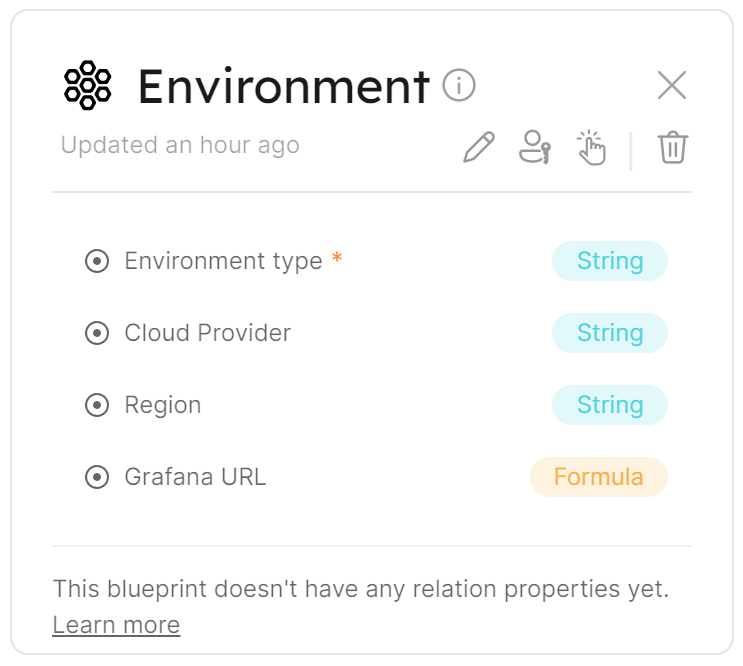
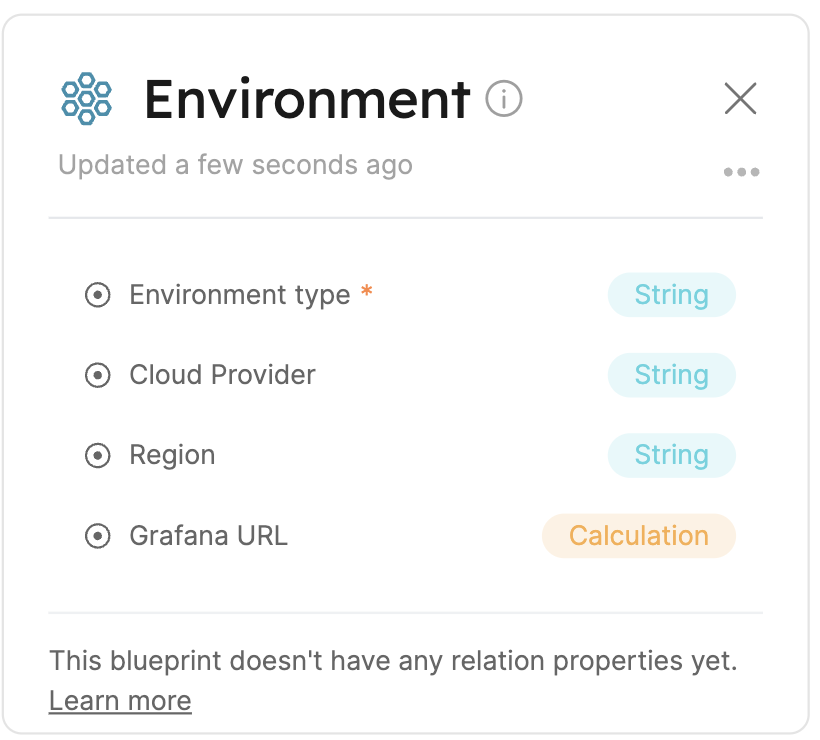
Change formula properties into calproperties in quickstart (#121)
* Change formula properties into calproperties in quickstart

* Format images

diff --git a/docs/quickstart.md b/docs/quickstart.md
@@ -232,19 +232,26 @@ In order to create the service Blueprint, use the following JSON body:
     "slack-notifications": {
       "title": "Slack Notifications",
       "icon": "Link",
-      "calculation": "'https://slack.com/' + .identifier"
+      "calculation": "'https://slack.com/' + .identifier",
+      "type": "string",
+      "format": "url"
     },
     "latest-build-output": {
       "title": "Latest Build Output",
       "icon": "Jenkins",
-      "calculation": ".properties.url + '/' + .properties.version"
+      "calculation": ".properties.url + '/' + .properties.version",
+      "type": "string",
+      "format": "url"
     },
     "launch-darkly": {
       "title": "Launch Darkly",
       "icon": "Customer",
-      "calculation": "'https://launchdarkly.com/' + .properties.title"
+      "calculation": "'https://launchdarkly.com/' + .title",
+      "type": "string",
+      "format": "url"
     }
   },
+  "formulaProperties": {},
   "relations": {}
 }
 ```
@@ -425,19 +432,26 @@ blueprint = {
       "slack-notifications": {
         "title": "Slack Notifications",
         "icon": "Link",
-        "calculation": "'https://slack.com/' + .identifier"
+        "calculation": "'https://slack.com/' + .identifier",
+        "type": "string",
+        "format": "url"
       },
       "latest-build-output": {
         "title": "Latest Build Output",
         "icon": "Jenkins",
-        "calculation": ".properties.url + '/' + .properties.version"
+        "calculation": ".properties.url + '/' + .properties.version",
+        "type": "string",
+        "format": "url"
       },
       "launch-darkly": {
         "title": "Launch Darkly",
         "icon": "Customer",
-        "calculation": "'https://launchdarkly.com/' + .properties.title"
+        "calculation": "'https://launchdarkly.com/' + .title",
+        "type": "string",
+        "format": "url"
       }
   },
+    "formulaProperties": {},
     "relations": {}
 }
 
@@ -884,15 +898,20 @@ To create the running service Blueprint, use the following JSON body:
   "calculationProperties": {
     "sentryUrl": {
       "title": "Sentry URL",
+      "type": "string",
+      "format": "url",
       "icon": "Link",
       "calculation": "'https://sentry.io/' + .identifier"
     },
     "newRelicUrl": {
       "title": "NewRelic URL",
+      "type": "string",
+      "format": "url",
       "icon": "Link",
       "calculation": "'https://newrelic.com/' + .identifier"
     }
   },
+  "formulaProperties": {},
   "relations": {
     "microservice": {
       "target": "microservice",
@@ -1033,17 +1052,22 @@ blueprint = {
     },
     "mirrorProperties": {},
     "calculationProperties": {
-    "sentryUrl": {
-      "title": "Sentry URL",
-      "icon": "Link",
-      "calculation": "'https://sentry.io/' + .identifier"
+      "sentryUrl": {
+        "title": "Sentry URL",
+        "type": "string",
+        "format": "url",
+        "icon": "Link",
+        "calculation": "'https://sentry.io/' + .identifier"
     },
     "newRelicUrl": {
-      "title": "NewRelic URL",
-      "icon": "Link",
-      "calculation": "'https://newrelic.com/' + .identifier"
+        "title": "NewRelic URL",
+        "type": "string",
+        "format": "url",
+        "icon": "Link",
+        "calculation": "'https://newrelic.com/' + .identifier"
     }
-  },
+    },
+    "formulaProperties": {},
     "relations": {
         "microservice": {
             "target": "microservice",

diff --git a/docs/software-catalog/search-in-port.md b/docs/software-catalog/search-in-port.md
@@ -440,10 +440,10 @@ The output received from the `relatedTo` operator without any other rule added t
 
 The search route also supports several query parameters that affect the returned output:
 
-| Parameter                       | Description                                                                                                                                                                                                 | Available values | Default value |
-| ------------------------------- | ----------------------------------------------------------------------------------------------------------------------------------------------------------------------------------------------------------- | ---------------- | ------------- |
-| `attach_title_to_relation`      | `true`: Both the identifier and the title of the related Entity will appear under the Relation key <br></br><br></br> `false`: Only the identifier of the related Entity will appear under the Relation key | `true`/`false`   | `false`       |
-| `exclude_calculated_properties` | Should [mirror properties](../software-catalog/blueprint/blueprint.md#mirror-properties) and [calculation properties](../software-catalog/blueprint/blueprint.md#calculation-properties) be returned with the result                  | `true`/`false`   | `false`       |
+| Parameter                       | Description                                                                                                                                                                                                          | Available values | Default value |
+| ------------------------------- | -------------------------------------------------------------------------------------------------------------------------------------------------------------------------------------------------------------------- | ---------------- | ------------- |
+| `attach_title_to_relation`      | `true`: Both the identifier and the title of the related Entity will appear under the Relation key <br></br><br></br> `false`: Only the identifier of the related Entity will appear under the Relation key          | `true`/`false`   | `false`       |
+| `exclude_calculated_properties` | Should [mirror properties](../software-catalog/blueprint/blueprint.md#mirror-properties) and [calculation properties](../software-catalog/blueprint/blueprint.md#calculation-properties) be returned with the result | `true`/`false`   | `false`       |
 
 ### `attach_title_to_relation` example
 
